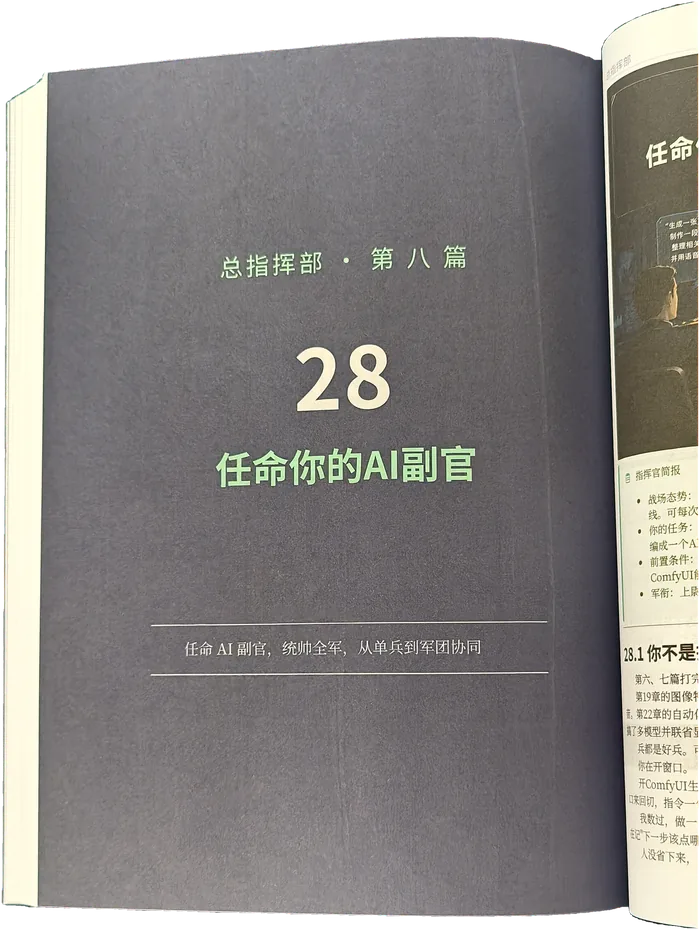
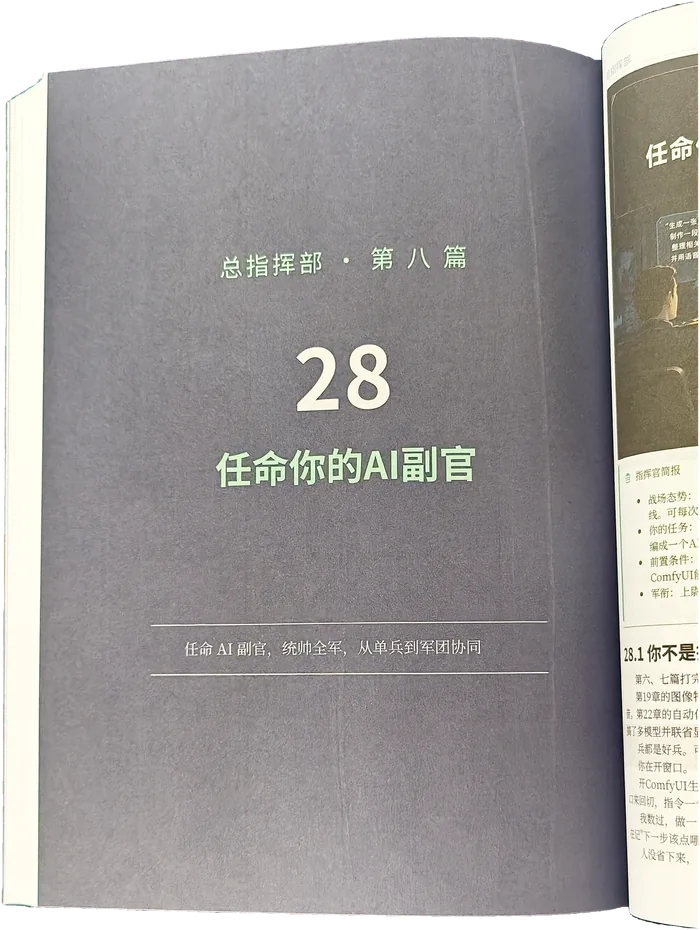
feat（新功能）: 样书实拍提亮加对比并支持框内 1:1 放大
- 影调统一调整：在原片基础上提亮累计约 20% 并增加 10% 对比度，两条曲线均保持黑白两端不动，避免顶死高光
- 重新产出 10 张精选的主图（宽 700）、缩略图（宽 152）、大图（宽 2200）三档，替换网站素材并新增「大图」目录
- 新增框内 1:1 放大：点击主图在原有外框内按原始像素显示，超出部分框内滚动，再次点击还原，不做弹窗、不跳页
- 大图按需加载，仅在点击放大时才下载，不占首屏流量；放大态下切换缩略图会自动换成对应大图
- 修复放大态下切换缩略图时框内滚动位置未归零的问题
- 升资源版本号 xianfeng.css?v=14、xianfeng.js?v=6，避免浏览器缓存旧样式

diff --git a/xianfeng.html b/xianfeng.html
@@ -15,7 +15,7 @@
     <meta property="og:url" content="https://www.ai-mmc.cn/xianfeng.html" />
     <meta property="og:image" content="https://www.ai-mmc.cn/%E7%B4%A0%E6%9D%90/%E4%B9%A6%E7%B1%8D/AI%E6%8C%87%E6%8C%A5%E5%AE%98-%E7%AB%8B%E4%BD%93%E4%B9%A6.webp" />
     <link rel="stylesheet" href="base.css?v=4" />
-    <link rel="stylesheet" href="xianfeng.css?v=13" />
+    <link rel="stylesheet" href="xianfeng.css?v=14" />
   </head>
   <body data-page="xianfeng">
     <!-- 导航内容由 shared.js 统一注入（全站共享层），页面只保留空容器 -->
@@ -49,22 +49,33 @@
                  角标放在照片外面：封面是满幅图、书名就在最上沿，压在上面会挡字 -->
             <div class="xf-photo-badge">📷 印厂实拍 · 样板书已下线</div>
             <div class="xf-gallery">
-              <figure class="xf-photo">
+              <figure
+                class="xf-photo"
+                id="xfPhoto"
+                role="button"
+                tabindex="0"
+                aria-pressed="false"
+                aria-label="点击在框内按 1:1 放大查看"
+              >
                 <img
                   id="xfShot"
                   src="素材/样板书/样板书实拍-01-封面.webp"
+                  data-main="素材/样板书/样板书实拍-01-封面.webp"
+                  data-full="素材/样板书/大图/样板书实拍-01-封面.webp"
                   alt="《AI指挥官》样板书实拍：封面"
                   width="700"
                   height="916"
                   loading="eager"
                   decoding="async"
                 />
+                <span class="xf-zoom-hint" id="xfZoomHint">点击放大 1:1</span>
               </figure>
               <div class="xf-thumbs" id="xfThumbs" role="group" aria-label="样板书实拍图切换">
                 <button
                   type="button"
                   class="xf-thumb on"
                   data-shot="素材/样板书/样板书实拍-01-封面.webp"
+                  data-full="素材/样板书/大图/样板书实拍-01-封面.webp"
                   data-alt="《AI指挥官》样板书实拍：封面"
                   aria-pressed="true"
                 >
@@ -75,6 +86,7 @@
                   type="button"
                   class="xf-thumb"
                   data-shot="素材/样板书/样板书实拍-02-书名页.webp"
+                  data-full="素材/样板书/大图/样板书实拍-02-书名页.webp"
                   data-alt="《AI指挥官》样板书实拍：书名页"
                   aria-pressed="false"
                 >
@@ -85,6 +97,7 @@
                   type="button"
                   class="xf-thumb"
                   data-shot="素材/样板书/样板书实拍-03-封底.webp"
+                  data-full="素材/样板书/大图/样板书实拍-03-封底.webp"
                   data-alt="《AI指挥官》样板书实拍：封底与图书信息"
                   aria-pressed="false"
                 >
@@ -95,6 +108,7 @@
                   type="button"
                   class="xf-thumb"
                   data-shot="素材/样板书/样板书实拍-04-两册叠放.webp"
+                  data-full="素材/样板书/大图/样板书实拍-04-两册叠放.webp"
                   data-alt="《AI指挥官》样板书实拍：两册叠放"
                   aria-pressed="false"
                 >
@@ -105,6 +119,7 @@
                   type="button"
                   class="xf-thumb"
                   data-shot="素材/样板书/样板书实拍-05-群英谱.webp"
+                  data-full="素材/样板书/大图/样板书实拍-05-群英谱.webp"
                   data-alt="《AI指挥官》样板书实拍：群英谱 联合出版人"
                   aria-pressed="false"
                 >
@@ -115,6 +130,7 @@
                   type="button"
                   class="xf-thumb"
                   data-shot="素材/样板书/样板书实拍-06-趋势瞭望.webp"
+                  data-full="素材/样板书/大图/样板书实拍-06-趋势瞭望.webp"
                   data-alt="《AI指挥官》样板书实拍：趋势瞭望 篇章页"
                   aria-pressed="false"
                 >
@@ -125,6 +141,7 @@
                   type="button"
                   class="xf-thumb"
                   data-shot="素材/样板书/样板书实拍-07-目录.webp"
+                  data-full="素材/样板书/大图/样板书实拍-07-目录.webp"
                   data-alt="《AI指挥官》样板书实拍：目录"
                   aria-pressed="false"
                 >
@@ -135,6 +152,7 @@
                   type="button"
                   class="xf-thumb"
                   data-shot="素材/样板书/样板书实拍-08-章节插图.webp"
+                  data-full="素材/样板书/大图/样板书实拍-08-章节插图.webp"
                   data-alt="《AI指挥官》样板书实拍：章节插图"
                   aria-pressed="false"
                 >
@@ -145,6 +163,7 @@
                   type="button"
                   class="xf-thumb"
                   data-shot="素材/样板书/样板书实拍-09-第19章.webp"
+                  data-full="素材/样板书/大图/样板书实拍-09-第19章.webp"
                   data-alt="《AI指挥官》样板书实拍：第 19 章 图像特种兵"
                   aria-pressed="false"
                 >
@@ -155,6 +174,7 @@
                   type="button"
                   class="xf-thumb"
                   data-shot="素材/样板书/样板书实拍-10-第28章.webp"
+                  data-full="素材/样板书/大图/样板书实拍-10-第28章.webp"
                   data-alt="《AI指挥官》样板书实拍：第 28 章 任命你的 AI 副官"
                   aria-pressed="false"
                 >
@@ -431,7 +451,7 @@
     ></div>
 
     <script src="shared.js?v=16"></script>
-    <script src="xianfeng.js?v=4"></script>
+    <script src="xianfeng.js?v=6"></script>
     <!-- 百度统计：占位。拿到站点代码后，用官方 hm.js 脚本整体替换下方注释 -->
     <!-- <script>var _hmt=_hmt||[];(function(){var hm=document.createElement("script");hm.src="https://hm.baidu.com/hm.js?站点代码";var s=document.getElementsByTagName("script")[0];s.parentNode.insertBefore(hm,s);})();</script> -->
   </body>

diff --git a/xianfeng.js b/xianfeng.js
@@ -44,21 +44,62 @@
     }
   }
 
-  /* ---------- 样书实拍画廊：点缩略图换主图 ---------- */
+  /* ---------- 样书实拍画廊：点缩略图换主图 + 点主图在框内按 1:1 放大 ---------- */
   var shot = document.getElementById("xfShot");
   var thumbs = document.getElementById("xfThumbs");
+  var photo = document.getElementById("xfPhoto");
+  var hint = document.getElementById("xfZoomHint");
   if (shot && thumbs) {
     var btnList = Array.prototype.slice.call(
       thumbs.querySelectorAll(".xf-thumb"),
     );
-    /* 缩略图走单独的小图，主图只在用户点开时才下载。
-       指针移到某个缩略图上（或键盘聚焦）时提前取主图，点下去就不会空一下。 */
+
+    /* 缩略图走单独的小图，主图与 1:1 大图都按需加载：
+       - 指针移到缩略图上（或键盘聚焦）时提前取主图，点下去不空一下
+       - 大图只在真正点击放大时才下载，不占首屏流量 */
     function warm(btn) {
       if (btn.dataset.warmed) return;
       btn.dataset.warmed = "1";
       var pre = new Image();
       pre.src = btn.dataset.shot;
     }
+    function zoomed() {
+      return !!(photo && photo.classList.contains("zoomed"));
+    }
+    /* 载入某张图：按当前是否处于放大状态，决定取小图还是全分辨率大图 */
+    function load(btn) {
+      var want = zoomed() ? btn.dataset.full : btn.dataset.shot;
+      if (want && shot.getAttribute("src") !== want) shot.src = want;
+    }
+    function apply(btn) {
+      btnList.forEach(function (b) {
+        var on = b === btn;
+        b.classList.toggle("on", on);
+        b.setAttribute("aria-pressed", on ? "true" : "false");
+      });
+      shot.alt = btn.dataset.alt;
+      load(btn);
+      resetScroll();
+    }
+    /* 回到框内左上角：换图和切换放大状态都要复位，
+       否则放大态下换一张图会停在上一次的滚动位置，看着像"图缺了一块" */
+    function resetScroll() {
+      if (!photo) return;
+      photo.scrollTop = 0;
+      photo.scrollLeft = 0;
+    }
+    function setZoom(on) {
+      if (!photo) return;
+      var cur = btnList.filter(function (b) {
+        return b.classList.contains("on");
+      })[0];
+      photo.classList.toggle("zoomed", on);
+      photo.setAttribute("aria-pressed", on ? "true" : "false");
+      if (hint) hint.textContent = on ? "点击还原" : "点击放大 1:1";
+      if (cur) load(cur);
+      resetScroll();
+    }
+
     btnList.forEach(function (btn) {
       btn.addEventListener("mouseenter", function () {
         warm(btn);
@@ -68,15 +109,21 @@
       });
       btn.addEventListener("click", function () {
         if (btn.classList.contains("on")) return;
-        shot.src = btn.dataset.shot;
-        shot.alt = btn.dataset.alt;
-        btnList.forEach(function (b) {
-          var on = b === btn;
-          b.classList.toggle("on", on);
-          b.setAttribute("aria-pressed", on ? "true" : "false");
-        });
+        apply(btn);
       });
     });
+
+    if (photo) {
+      photo.addEventListener("click", function () {
+        setZoom(!zoomed());
+      });
+      photo.addEventListener("keydown", function (e) {
+        if (e.key === "Enter" || e.key === " " || e.key === "Spacebar") {
+          e.preventDefault();
+          setZoom(!zoomed());
+        }
+      });
+    }
   }
 
   /* ---------- 倒计时 ---------- */

diff --git a/xianfeng.css b/xianfeng.css
@@ -177,11 +177,51 @@
 /* 主图：10 张实拍的宽高比不完全一致（0.63–0.89），用 contain 完整显示、
    绝不裁切书页；外框比例固定，切换时版式不跳动。
    图已去背景为透明，露出的就是首屏的深蓝底，没有留白框的观感。 */
+.xf-photo {
+  cursor: zoom-in;
+}
 .xf-photo img {
   display: block;
   width: 100%;
   height: 100%;
   object-fit: contain;
+}
+/* 框内 1:1 放大：外框当作取景窗，图片按原始像素尺寸呈现（一个图像像素对一个屏幕像素），
+   超出部分在框内滚动查看；不做弹窗。 */
+.xf-photo.zoomed {
+  overflow: auto;
+  cursor: zoom-out;
+  scrollbar-width: thin;
+  scrollbar-color: rgba(0, 237, 189, 0.5) transparent;
+}
+.xf-photo.zoomed img {
+  width: auto;
+  height: auto;
+  max-width: none;
+  max-height: none;
+  object-fit: none;
+}
+/* 放大提示：默认显示，放大后隐藏 */
+.xf-zoom-hint {
+  position: absolute;
+  right: 10px;
+  bottom: 10px;
+  z-index: 3;
+  background: rgba(11, 20, 38, 0.85);
+  color: var(--teal);
+  font-size: 11.5px;
+  letter-spacing: 0.04em;
+  padding: 4px 10px;
+  border-radius: 999px;
+  border: 1px solid rgba(0, 237, 189, 0.4);
+  pointer-events: none;
+}
+.xf-photo.zoomed .xf-zoom-hint {
+  position: sticky;
+  left: 0;
+  bottom: 0;
+  display: inline-block;
+  margin: 0 0 8px 8px;
 }
 /* 缩略图窗口：竖排、限高、默认不滚；窄屏由下方媒体查询转为横排 */
 .xf-thumbs {
